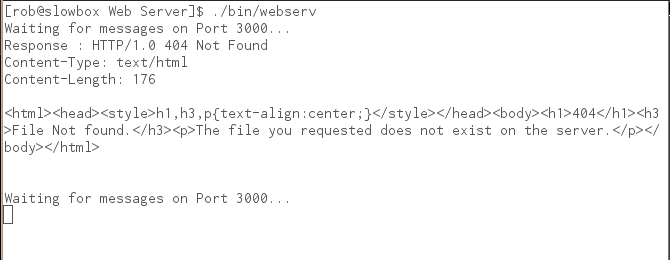
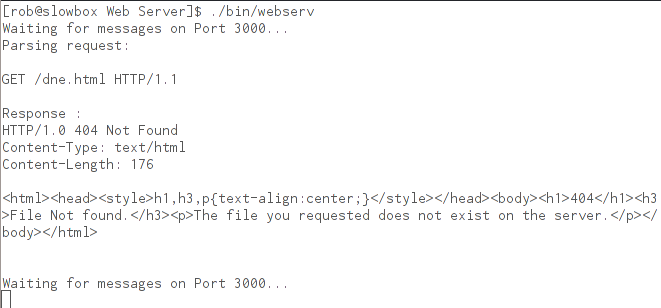
updated

Changed region(s): [[0.0, 0.0, 1.0, 1.0]]

diff --git a/138/Projects/Web Server/src/webserv.c b/138/Projects/Web Server/src/webserv.c
@@ -51,7 +51,7 @@ int main(int argc, char *argv[])
 		}
 
 		response_header.full_response = NULL;
-		printf("Response : %s\n",response);
+		printf("Response : \n%s\n",response);
 
 		n = write(newsockfd,response,strlen(response));
 		close(newsockfd);
@@ -72,6 +72,7 @@ void parseRequest(char *buffer){
 	char *token = strtok_r(buffer,"\r\n",&end_str);
 	int method_set = 0;
 	int first_line = 1;
+	printf("Parsing request:\n\n%s\n\n",buffer);
 
 	while(token != NULL){
 		/* While there are tokens in "string" */
